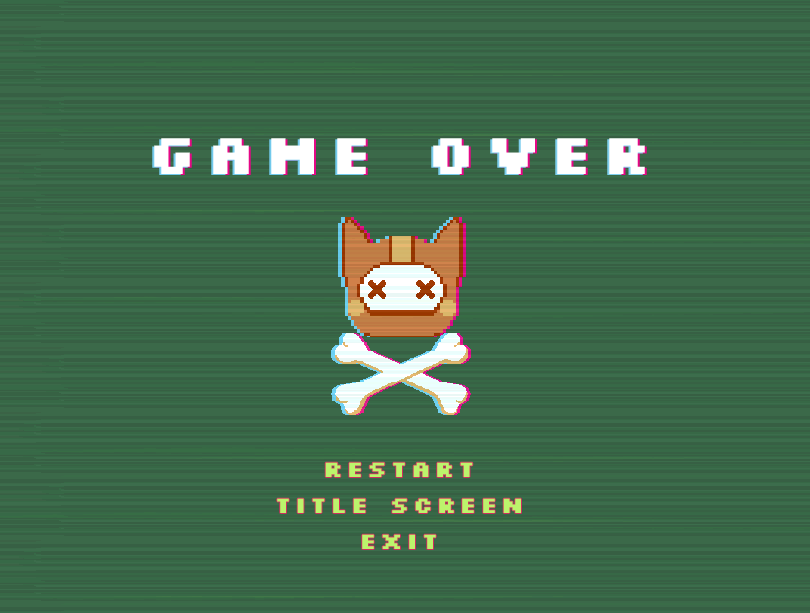
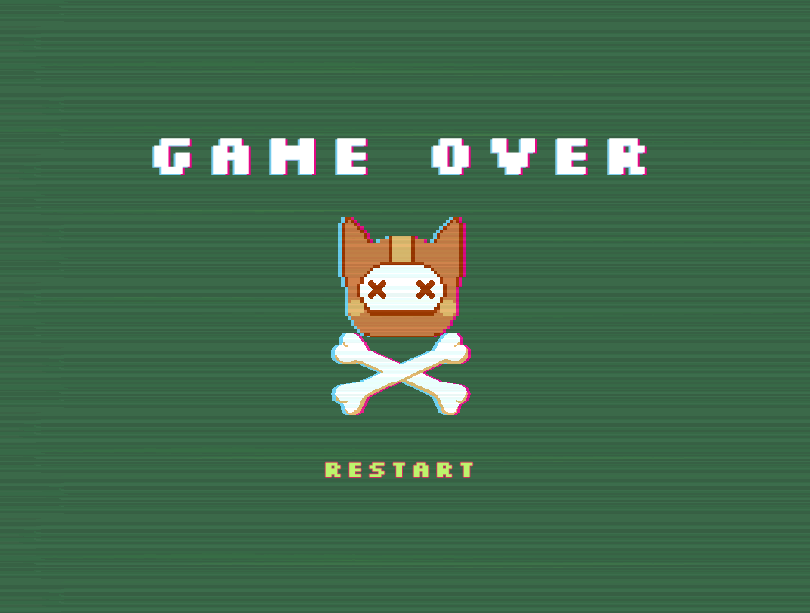
new assets

Changed region(s): [[0.3395, 0.8059, 0.6481, 0.8369], [0.4321, 0.8679, 0.5556, 0.8989]]

diff --git a/src/scenes/GameOver.ts b/src/scenes/GameOver.ts
@@ -33,17 +33,7 @@ export default class GameOver extends Phaser.Scene {
         const theme = this.sound.add('fail-theme',{loop:true} )
         theme.play()
       
-      this.add.image(400,300,"gameOverScreen")
-      this.add.sprite(400,300,"titelScreen").setInteractive().on(Phaser.Input.Events.GAMEOBJECT_POINTER_DOWN , (ptr,img)=> {
-          console.log({img})
-        console.log("Title clicked!")
-        // this.scene.start('title')
-     })
-      this.add.image(400,300,"restart").setInteractive().on(Phaser.Input.Events.GAMEOBJECT_POINTER_DOWN, (ptr, img)=> {
-        console.log({img})
-        console.log({ptr})
-        console.log(img.getData)
-        console.log("restart clicked!")
+      this.add.image(400,300,"gameOverScreen").setInteractive().on(Phaser.Input.Events.GAMEOBJECT_POINTER_DOWN, ()=> {
         this.scene.start('space-level')
       })
     }
